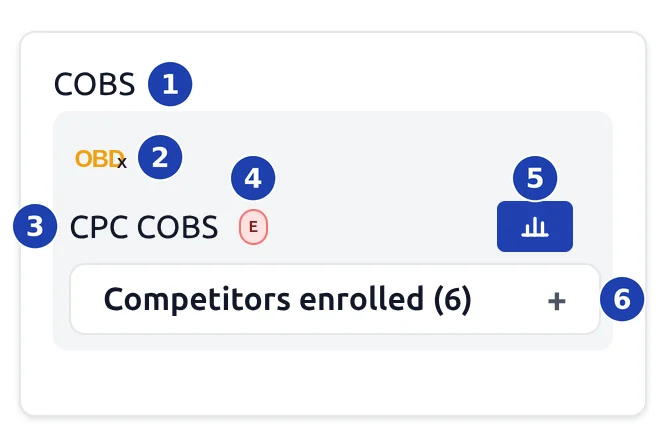
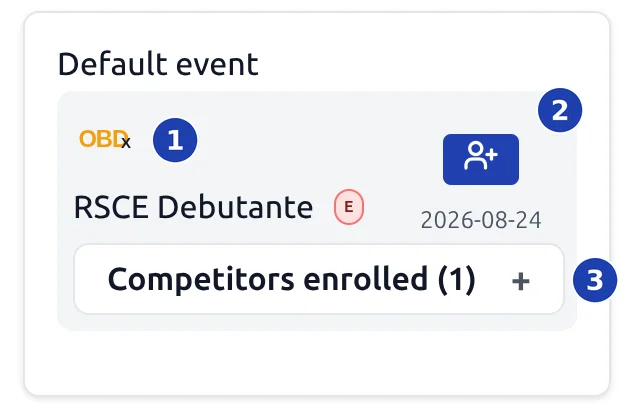
more info walkthroughs

diff --git a/ui/app/src/routes/stages/index.tsx b/ui/app/src/routes/stages/index.tsx
@@ -38,6 +38,7 @@ import {
   defaultStagesDateRange,
   formatUtcDateOnly,
   parseDateInputValue,
+  parseTimestampParam,
   toDateInputValue,
 } from "@/utils/date";
 import { isOffline as isOfflinePolicy } from "@/utils/local-first/localFirstPolicy";
@@ -90,8 +91,8 @@ function StagesDataProvider(props: ParentProps) {
   const [dateFromFilter] = useSearchParam("from", "");
   const [dateToFilter] = useSearchParam("to", "");
   const defaultRange = defaultStagesDateRange();
-  const fromMs = () => parseDateInputValue(dateFromFilter(), defaultRange.from);
-  const toMs = () => parseDateInputValue(dateToFilter(), defaultRange.to);
+  const fromMs = () => parseTimestampParam(dateFromFilter(), defaultRange.from);
+  const toMs = () => parseTimestampParam(dateToFilter(), defaultRange.to);
 
   const query = useStages(fromMs, toMs, {
     refetchOnMount: !isOffline(),
@@ -133,10 +134,10 @@ function useFilteredStages() {
     const country = countryFilter().toLowerCase();
     const status = statusFilter();
     const fromTs = dateFromFilter()
-      ? new Date(dateFromFilter()).getTime()
+      ? parseTimestampParam(dateFromFilter(), 0)
       : null;
     const toTs = dateToFilter()
-      ? new Date(dateToFilter()).getTime() + DAY_MS - 1
+      ? parseTimestampParam(dateToFilter(), 0) + DAY_MS - 1
       : null;
 
     return stages.filter((stage) => {
@@ -541,8 +542,9 @@ function StagesIndexPage() {
 
   const defaultRange = defaultStagesDateRange();
   const dateFromValue = () =>
-    dateFromFilter() || toDateInputValue(defaultRange.from);
-  const dateToValue = () => dateToFilter() || toDateInputValue(defaultRange.to);
+    toDateInputValue(parseTimestampParam(dateFromFilter(), defaultRange.from));
+  const dateToValue = () =>
+    toDateInputValue(parseTimestampParam(dateToFilter(), defaultRange.to));
 
   const controls = createMemo(() => [
     {
@@ -598,8 +600,14 @@ function StagesIndexPage() {
             onNameChange={setNameFilter}
             onCountryChange={setCountryFilter}
             onStatusChange={setStatusFilter}
-            onDateFromChange={setDateFromFilter}
-            onDateToChange={setDateToFilter}
+            onDateFromChange={(value) =>
+              setDateFromFilter(
+                value ? String(parseDateInputValue(value, 0)) : "",
+              )
+            }
+            onDateToChange={(value) =>
+              setDateToFilter(value ? String(parseDateInputValue(value, 0)) : "")
+            }
           />
         </Show>
         <AtomSegmentedControl

diff --git a/ui/app/src/routes/stages/$id/route.tsx b/ui/app/src/routes/stages/$id/route.tsx
@@ -5,6 +5,8 @@ import stageDetailTabs from "@/assets/breadcrumb-info/stage-detail-tabs.webp";
 import stageDetailEventCard from "@/assets/breadcrumb-info/stage-detail-event-card.webp";
 import stageDetailCompetitors from "@/assets/breadcrumb-info/stage-detail-competitors.webp";
 import enrollButton from "@/assets/breadcrumb-info/enroll-button.webp";
+import stageDetailPending from "@/assets/breadcrumb-info/stage-detail-pending.webp";
+import classificationButton from "@/assets/breadcrumb-info/classification-button.webp";
 
 export const Route = createFileRoute("/stages/$id")({
   component: EventDetailLayoutPage,
@@ -35,11 +37,23 @@ function StageDetailBreadcrumbInfo() {
             image: stageDetailEventCard,
           },
         ],
-        [{ keys: ["COMMON.ENROLL_BUTTON_HINT"], image: enrollButton }],
+        [
+          { keys: ["COMMON.ENROLL_BUTTON_HINT"], image: enrollButton },
+          {
+            keys: ["COMMON.CLASSIFICATION_BUTTON_HINT"],
+            image: classificationButton,
+          },
+        ],
         [
           {
             keys: ["STAGES.DETAIL.BREADCRUMB_INFO_4"],
             image: stageDetailCompetitors,
+          },
+        ],
+        [
+          {
+            keys: ["STAGES.DETAIL.BREADCRUMB_INFO_5"],
+            image: stageDetailPending,
           },
         ],
       ]}

diff --git a/ui/app/src/routes/stages/route.tsx b/ui/app/src/routes/stages/route.tsx
@@ -4,6 +4,7 @@ import stagesViewModes from "@/assets/breadcrumb-info/stages-view-modes.webp";
 import stagesCardStage from "@/assets/breadcrumb-info/stages-card-stage.webp";
 import stagesCardEvent from "@/assets/breadcrumb-info/stages-card-event.webp";
 import enrollButton from "@/assets/breadcrumb-info/enroll-button.webp";
+import classificationButton from "@/assets/breadcrumb-info/classification-button.webp";
 import stagesFilters from "@/assets/breadcrumb-info/stages-filters.webp";
 import stagesMapStatus from "@/assets/breadcrumb-info/stages-map-status.webp";
 
@@ -27,7 +28,13 @@ function StagesBreadcrumbInfo() {
         [{ keys: ["STAGES.BREADCRUMB_INFO_3"], image: stagesViewModes }],
         [{ keys: ["STAGES.BREADCRUMB_INFO_4"], image: stagesCardStage }],
         [{ keys: ["STAGES.BREADCRUMB_INFO_5"], image: stagesCardEvent }],
-        [{ keys: ["COMMON.ENROLL_BUTTON_HINT"], image: enrollButton }],
+        [
+          { keys: ["COMMON.ENROLL_BUTTON_HINT"], image: enrollButton },
+          {
+            keys: ["COMMON.CLASSIFICATION_BUTTON_HINT"],
+            image: classificationButton,
+          },
+        ],
         [{ keys: ["STAGES.BREADCRUMB_INFO_6"], image: stagesFilters }],
         [{ keys: ["STAGES.BREADCRUMB_INFO_7"], image: stagesMapStatus }],
       ]}

diff --git a/ui/app/src/utils/date.ts b/ui/app/src/utils/date.ts
@@ -56,6 +56,12 @@ export function parseDateInputValue(value: string, fallback: number) {
   return new Date(`${value}T00:00:00Z`).getTime();
 }
 
+export function parseTimestampParam(value: string, fallback: number) {
+  const timestamp = Number(value);
+  if (!value || !Number.isFinite(timestamp)) return fallback;
+  return timestamp;
+}
+
 export const ONE_DAY_IN_MS = 24 * 60 * 60 * 1000;
 
 export function defaultStagesDateRange() {
